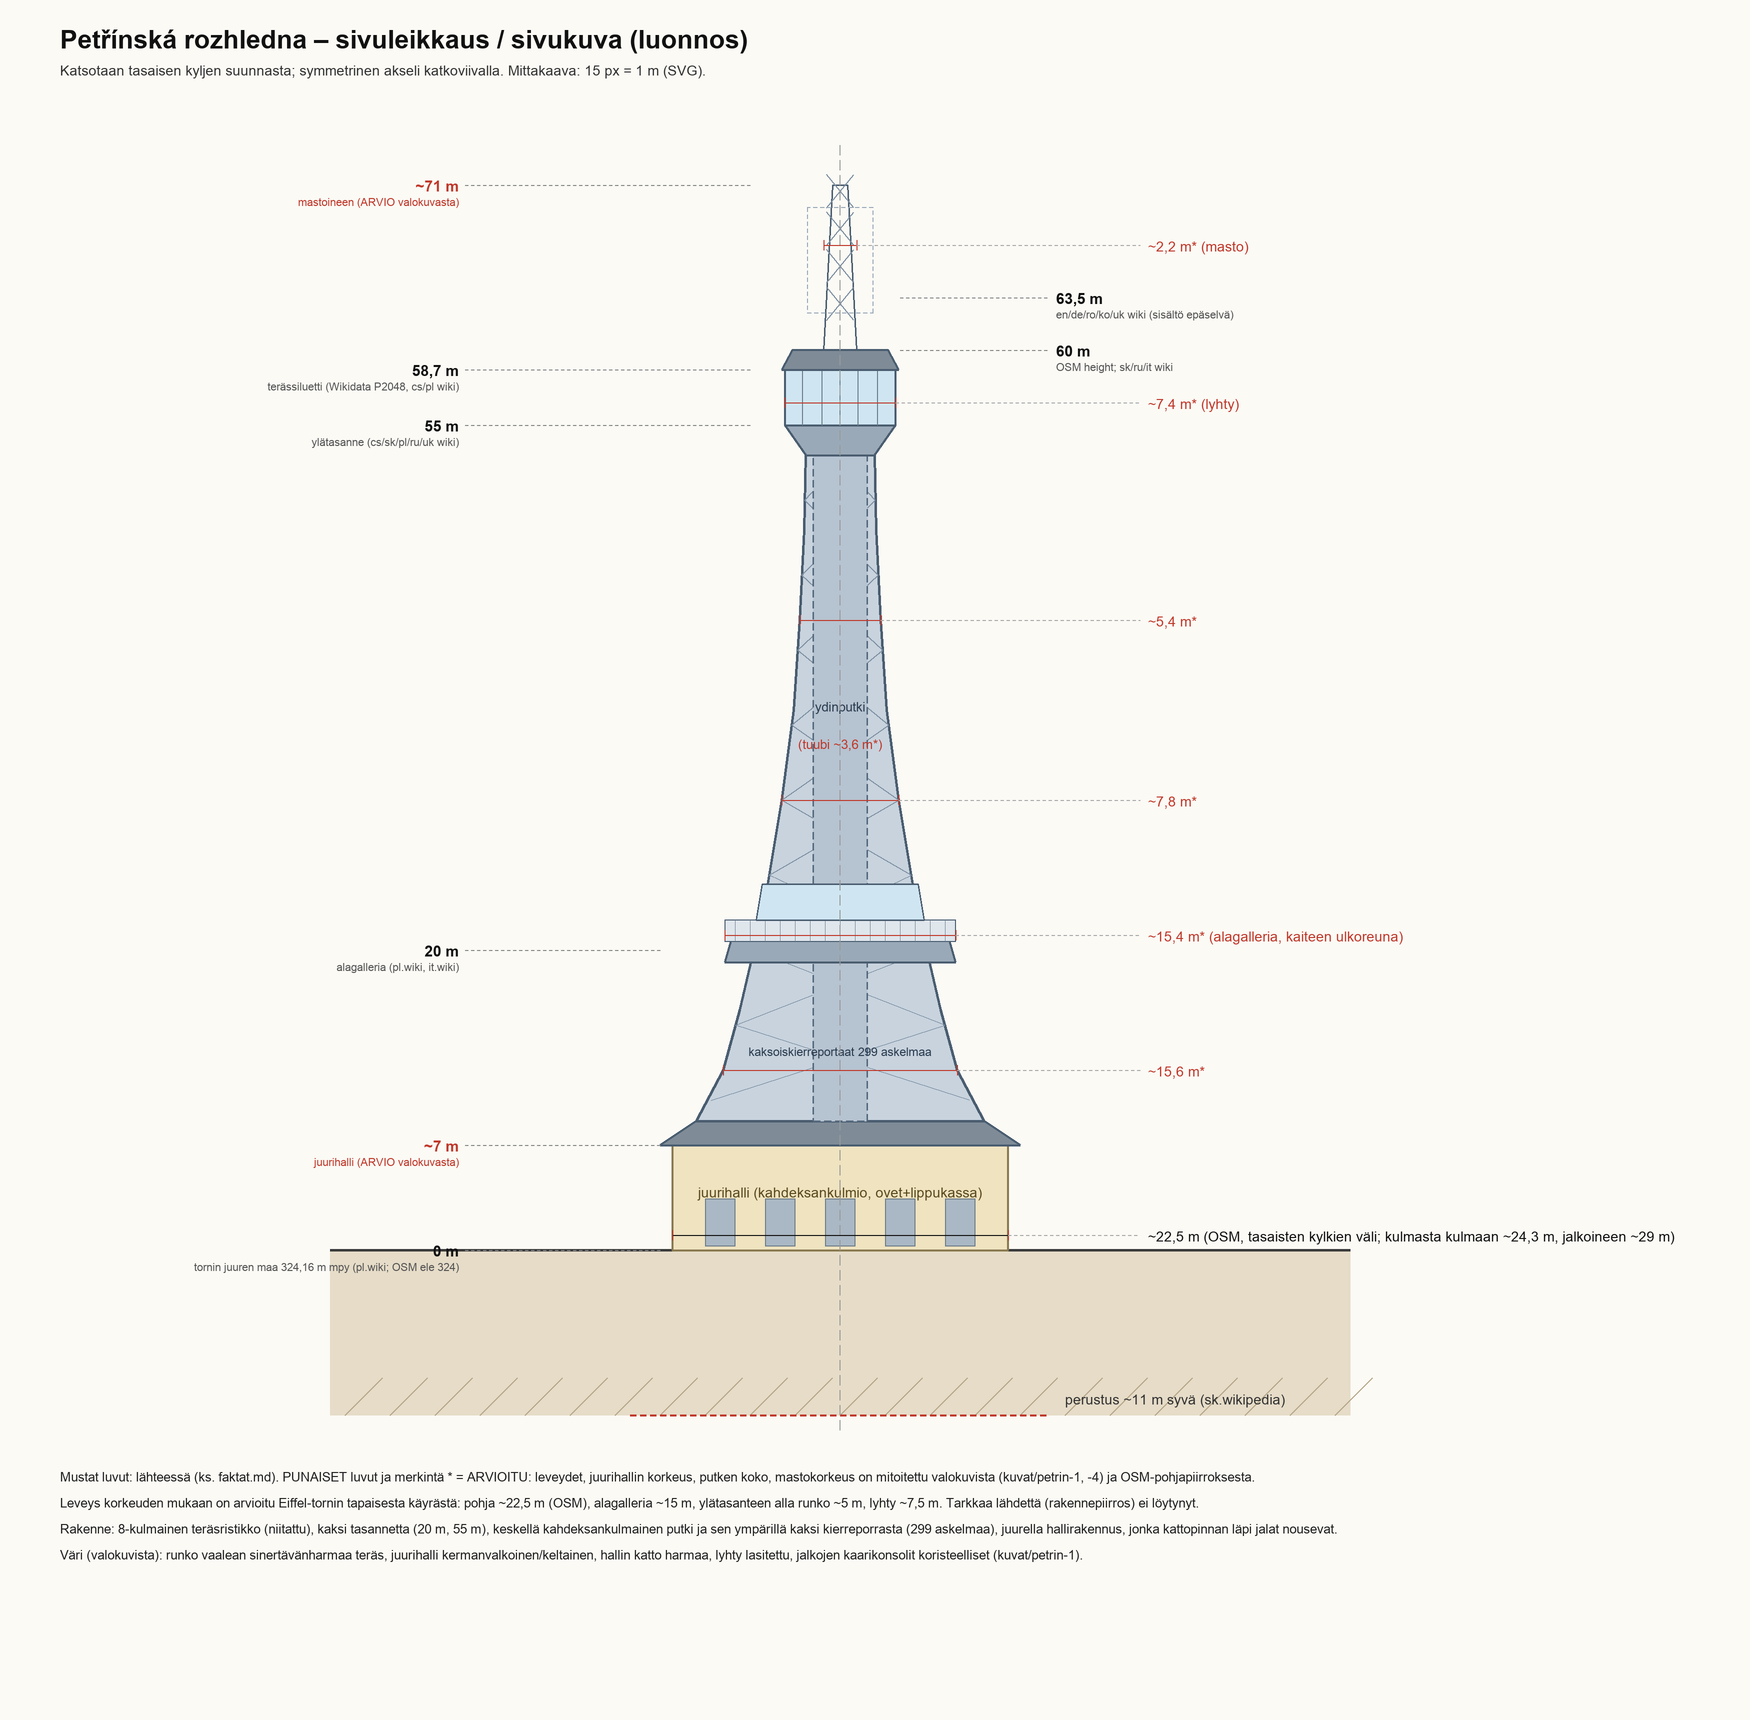
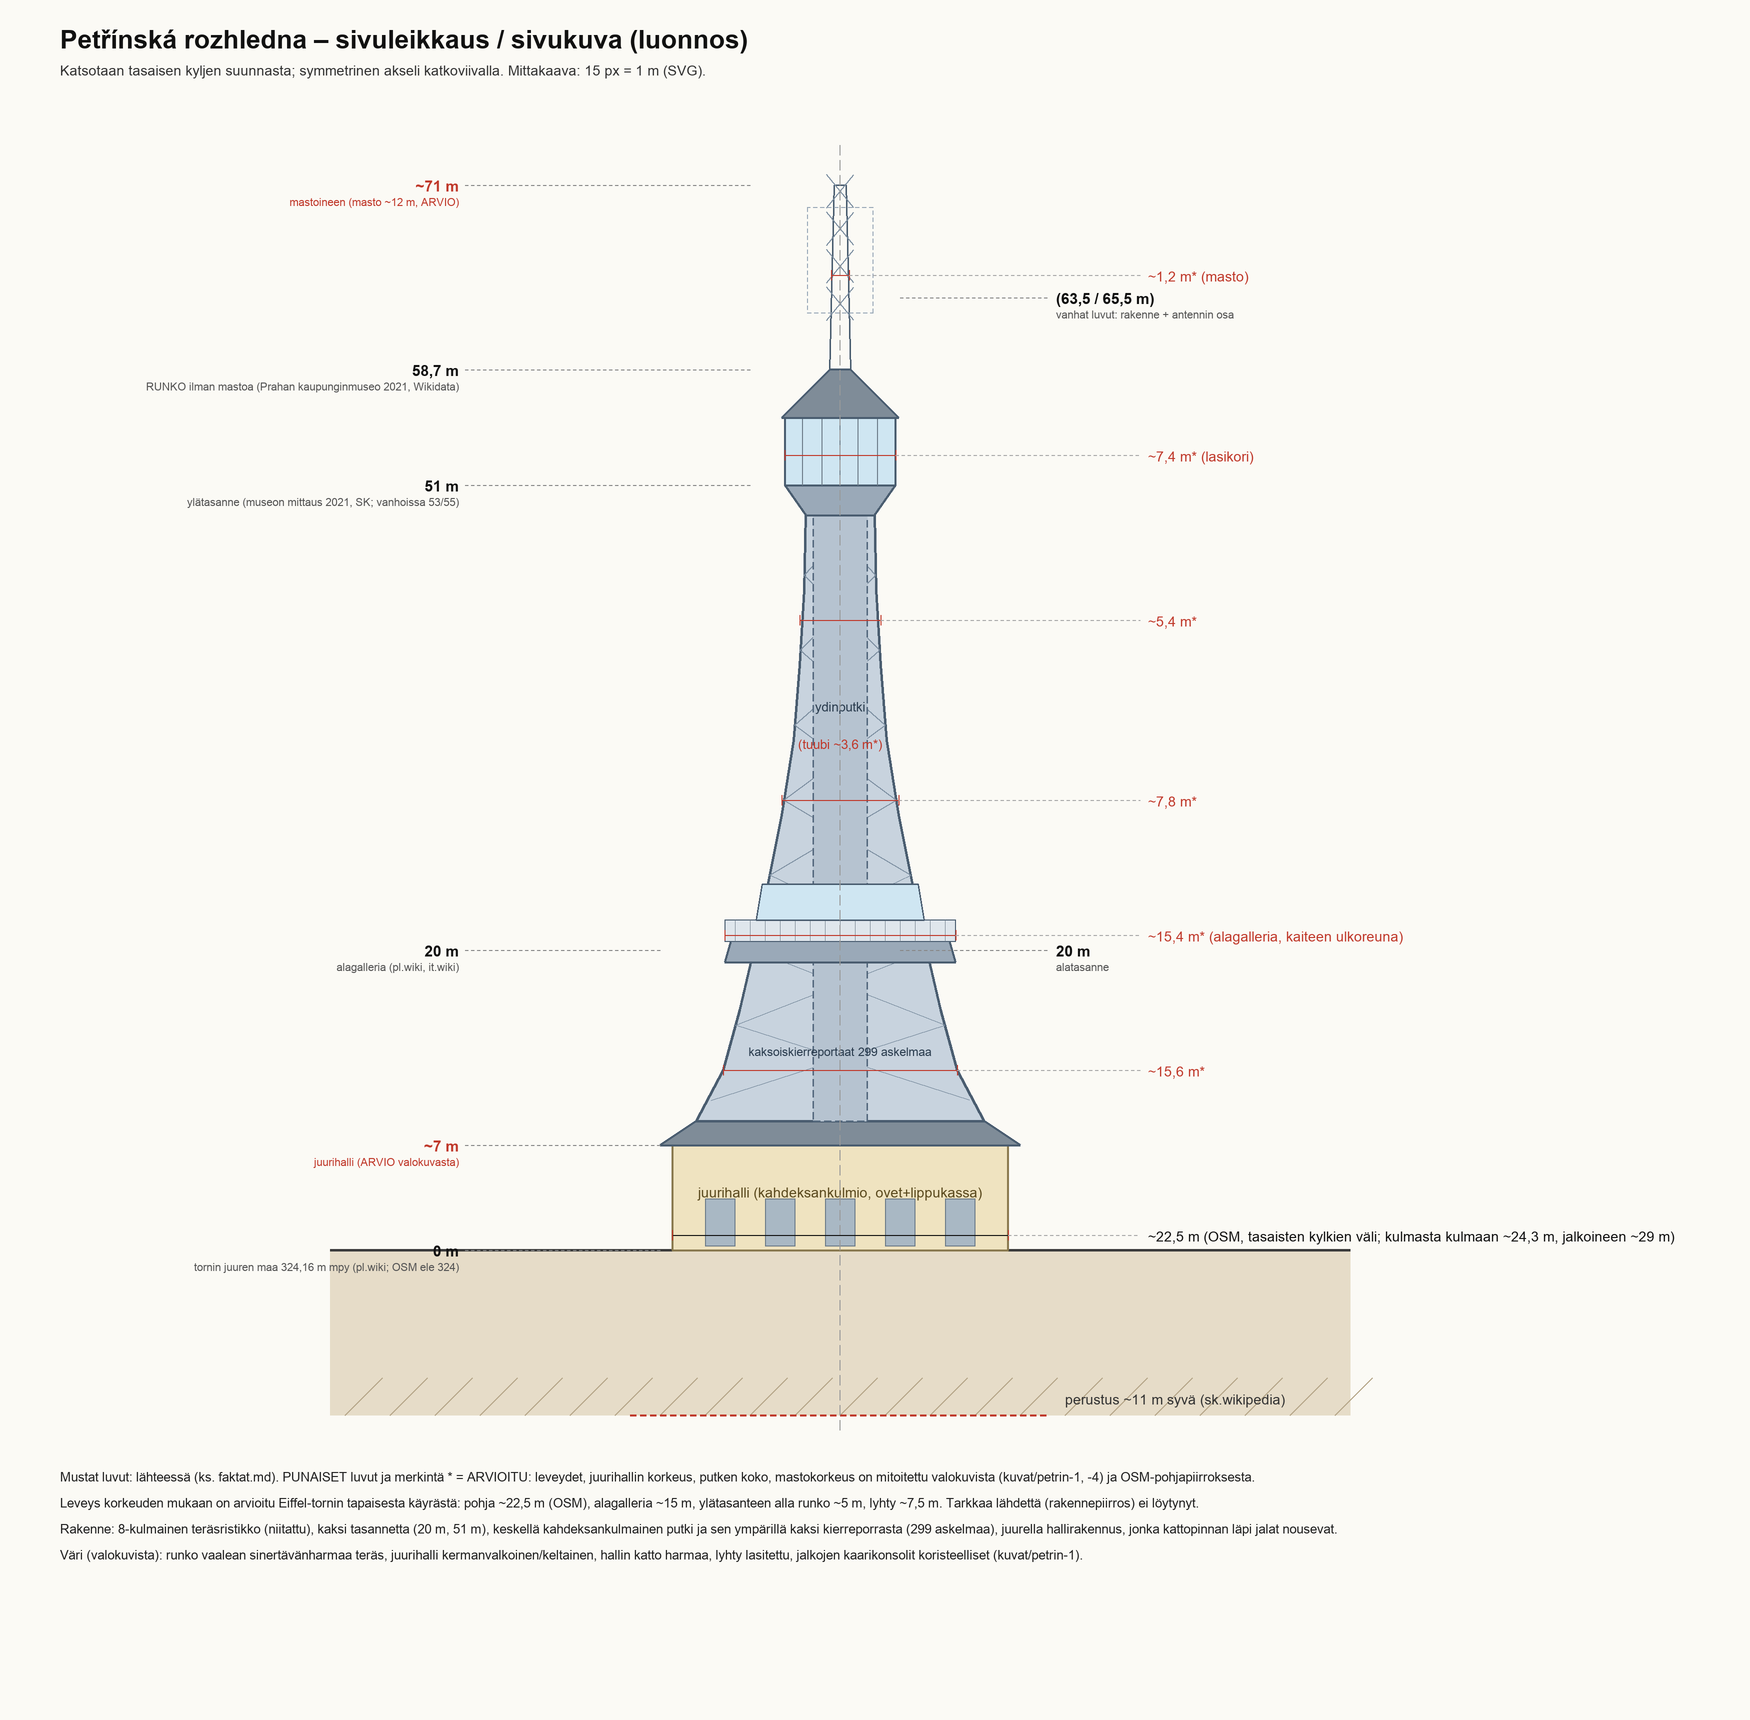
PT → Codex: KORJAUS Petřínin korkeudet (ylätasanne 51 m, runko 58,7 m)

diff --git a/posti/petrin-faktat.md b/posti/petrin-faktat.md
@@ -1,5 +1,12 @@
 # Petřínská rozhledna (Petřínin näkötorni, Praha) — faktat tavoiteluuppia varten
 
+> **PÄIVITYS 14.10.2026 (SK:n lähdetarkistus, PT hyväksyi; sitova mallille):** RUNKO 58,7 m ilman antennia maasta (Prahan kaupunginmuseon
+> uudelleenmittaus 2021, prague.eu / Prague City Tourism; stavbaweb.cz 58,9 m); 60 m = vuoden 1891 pyöristys; 63,5 m = teräsrakenne +
+> osa 1953-antennia; 65,5 m = antenni mukana. Masto ~12 m → mastoineen ~71 m (epävarma). YLÄTASANNE 51 m (50,8; vanhoissa 53/55 m),
+> ALATASANNE 20 m, 8 jalkaa / kahdeksankulmio, 299 askelmaa. Lähde: proto-3d/_tyo/sisaltokirjuri/petrin-tavoite-20261014/mitat.md.
+> Alla olevat 55 m- ja 60 m -luvut ovat vanhoja (säilytetty lähdehistoriana).
+
+
 Tila: LUONNOS 14.10.2026 (Valoseppä). Merkinnät: **[L]** = lähteessä, **[A]** = arvio (valokuvasta tai OSM-geometriasta johdettu, ei lähdettä).
 
 ## 0. Tunniste (korjaus tilaukseen)
@@ -18,7 +25,7 @@ Tila: LUONNOS 14.10.2026 (Valoseppä). Merkinnät: **[L]** = lähteessä, **[A]*
 | 66 m | pelin nykyinen `korkeus_m` | `Linssit/Resources/Elava/muodot-praha.json` (Q12256); TehtavaKohteet.cs käyttää 64 m (kommentti "torni 63,5 m") |
 | ~71 m | koko korkeus **mastoineen** | **[A]** mitattu valokuvasta (kuvat/petrin-4: lyhdyn katto ~59-60 m, mastoa vielä ~12 m ylöspäin) |
 
-Tulkinta (työolettamus): ristikkorunko + lasitettu lyhty päättyy ~58,7-60 m; 63,5 / 65,5 m lienee lyhdyn katto + alkuperäinen Wenceslas-kruunu/lippusalko tai lyhyempi antenniosa; nykyinen TV/FM-antennimasto nousee valokuvan mukaan selvästi tätä ylemmäs (~70 m). Mallia varten: **runko 60 m, mastoineen ~71 m [A]**. Ero kannattaa tarkistaa laser/mittakuvasta ennen lukitusta.
+Tulkinta (työolettamus): ristikkorunko + lasitettu lyhty päättyy ~58,7-60 m; 63,5 / 65,5 m lienee lyhdyn katto + alkuperäinen Wenceslas-kruunu/lippusalko tai lyhyempi antenniosa; nykyinen TV/FM-antennimasto nousee valokuvan mukaan selvästi tätä ylemmäs (~70 m). Mallia varten (VANHA, ks. päivitys alussa): runko 60 m, mastoineen ~71 m [A]. Ero kannattaa tarkistaa laser/mittakuvasta ennen lukitusta.
 
 Alkuperäinen huippu: "lasitettu lyhty ja Pyhän Venceslauksen kruunu rautaisine lippusalkoineen, joka toimi samalla ukkosenjohdattimena" (cs.wikipedia https://cs.wikipedia.org/wiki/Petřínská_rozhledna; pl.wikipedia). 1953 kruunun tilalle TV-antenni (cs.wikipedia); ru.wikipedia väittää antennin lisänneen noin 20 m (ei vahvistettu muualla).
 

diff --git a/posti/petrin-KORJAUS.md b/posti/petrin-KORJAUS.md
@@ -1,0 +1,9 @@
+# KORJAUS Petřínin tilaukseen (Päätoimittaja 14.10.2026)
+
+Edellisen postin (d3ecc0bbf) korkeudet olivat osin väärin. Lähdetarkistuksen (museon mittaus 2021) mukaan:
+- teräsrunko 58,7 m (ei 60 m)
+- YLÄTASANNE 51 m (ei 55 m)
+- alatasanne 20 m
+- masto noin 12 m → kokonaiskorkeus noin 71 m
+
+Tämä posti korvaa liitteet petrin-codex-tilaus.md, petrin-faktat.md ja petrin-leikkaus.png. Muut liitteet (kuvat, pohjakartta, kulmat) pysyvät ennallaan. Jos olet jo aloittanut, korjaa tasanteiden korkeudet ennen toimitusta.
